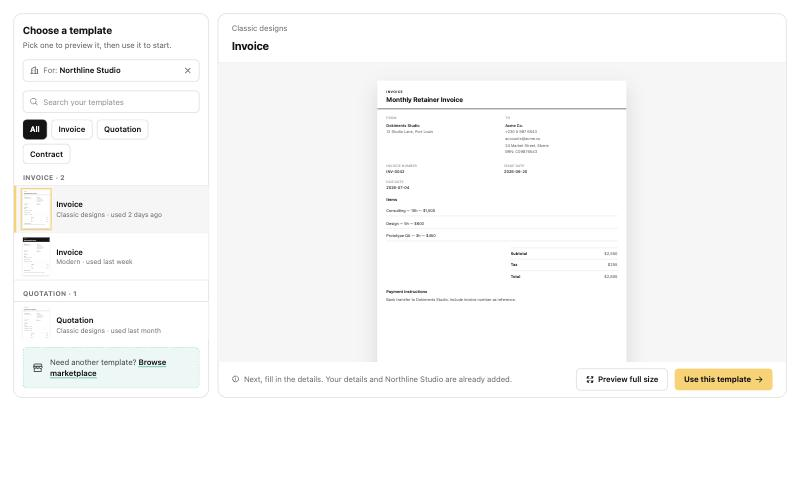
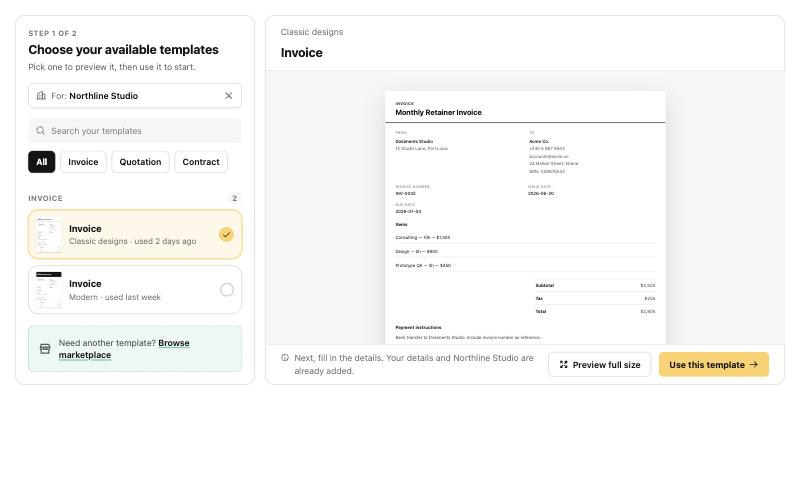
feat: rework choose template page.

diff --git a/src/components/dashboard/template-picker/template-picker-row.tsx b/src/components/dashboard/template-picker/template-picker-row.tsx
@@ -1,16 +1,15 @@
-import { CaretRightIcon } from "@phosphor-icons/react";
+import { ArrowRightIcon, CheckIcon } from "@phosphor-icons/react";
 import type { KeyboardEvent, Ref } from "react";
 
 import { TemplateThumbnail } from "@/components/commons/template-thumbnail/template-thumbnail";
 import { getTemplateDisplayName } from "@/lib/market-place/document-labels";
-import { iconSize } from "@/lib/icons";
 import { cn } from "@/lib/utils";
 import type { MarketplaceTemplate } from "@/types/template";
 
 export interface TemplatePickerRowProps {
   /** Muted second line, e.g. "Modern · used 2 days ago". */
   caption: string;
-  /** Desktop only: the row shown in the preview pane. */
+  /** Desktop only: the card shown in the preview pane. */
   isSelected?: boolean;
   /** Click or tap. The picker decides whether that selects or starts. */
   onActivate: () => void;
@@ -23,10 +22,14 @@ export interface TemplatePickerRowProps {
 }
 
 /**
- * One saved template in the picker list: a 48px A4 thumbnail (a real page
- * scaled down, like the marketplace cards), the name and a
- * caption. On desktop the selected row gets a golden edge and drives the
- * preview pane; on phones the chevron signals that a tap opens the editor.
+ * One saved template in the picker list, as its own card: a 40px A4
+ * thumbnail (a real page scaled down, like the marketplace cards), the name
+ * in bold and a muted caption.
+ *
+ * The marker on the right says what a click does. Desktop shows a radio
+ * circle (pick one to preview), filled golden with a check on the selected
+ * card, which also gets a golden ring and a pale gold fill. Phones show an
+ * arrow, because a tap starts the document straight away.
  */
 export const TemplatePickerRow = ({
   caption,
@@ -44,9 +47,9 @@ export const TemplatePickerRow = ({
       aria-current={isSelected ? "true" : undefined}
       aria-label={`${name}, ${caption}`}
       className={cn(
-        "template-picker-row relative flex min-h-16 w-full items-center gap-3 px-4 py-2 text-left transition-colors hover:bg-base-200 focus-visible:z-10 focus-visible:outline-2 focus-visible:-outline-offset-2 focus-visible:outline-nox-noir/30",
+        "template-picker-row flex min-h-18 w-full items-center gap-3 rounded-box border border-steel-mist bg-base-100 px-3 py-2.5 text-left transition-colors hover:bg-base-200 focus-visible:outline-2 focus-visible:outline-offset-2 focus-visible:outline-nox-noir/30",
         isSelected &&
-          "lg:bg-base-200 lg:before:absolute lg:before:inset-y-0 lg:before:left-0 lg:before:w-1 lg:before:bg-golden-harvest",
+          "lg:border-golden-harvest lg:bg-golden-harvest/15 lg:ring-1 lg:ring-golden-harvest lg:hover:bg-golden-harvest/20",
       )}
       data-template-id={template.id}
       onClick={onActivate}
@@ -55,13 +58,7 @@ export const TemplatePickerRow = ({
       ref={ref}
       type="button"
     >
-      <span
-        className={cn(
-          "w-12 shrink-0",
-          isSelected &&
-            "lg:outline-2 lg:outline-offset-2 lg:outline-golden-harvest",
-        )}
-      >
+      <span className="w-10 shrink-0">
         <TemplateThumbnail
           elevation="small"
           tiny
@@ -69,19 +66,41 @@ export const TemplatePickerRow = ({
         />
       </span>
       <span className="min-w-0 flex-1">
-        <span className="block truncate font-title text-[0.9375rem] font-semibold text-nox-noir lg:text-sm">
+        <span className="block truncate font-title text-[0.9375rem] font-bold text-nox-noir">
           {name}
         </span>
-        <span className="block truncate text-[0.8125rem] text-nox-noir/60 lg:text-xs">
+        <span className="block truncate text-[0.8125rem] text-nox-noir/60">
           {caption}
         </span>
       </span>
-      <CaretRightIcon
+
+      {/* Desktop: a radio circle, because a click selects. */}
+      {isSelected ? (
+        <span
+          aria-hidden
+          className="hidden size-6 shrink-0 place-items-center rounded-full bg-golden-harvest text-nox-noir lg:grid"
+        >
+          <CheckIcon
+            size={13}
+            weight="bold"
+          />
+        </span>
+      ) : (
+        <span
+          aria-hidden
+          className="hidden size-5.5 shrink-0 rounded-full border-2 border-steel-mist lg:block"
+        />
+      )}
+      {/* Phones: an arrow, because a tap starts the document. */}
+      <span
         aria-hidden
-        className="shrink-0 text-nox-noir/40 lg:hidden"
-        size={iconSize.control}
-        weight="bold"
-      />
+        className="grid size-8 shrink-0 place-items-center rounded-full bg-base-200 text-nox-noir lg:hidden"
+      >
+        <ArrowRightIcon
+          size={14}
+          weight="bold"
+        />
+      </span>
     </button>
   );
 };

diff --git a/src/components/dashboard/template-picker/template-picker.tsx b/src/components/dashboard/template-picker/template-picker.tsx
@@ -118,15 +118,18 @@ export const TemplatePicker = ({
   // Desktop: one fixed-height row, so the list card and the preview end on
   // the same line; the list scrolls inside its card.
   return (
-    <div className="template-picker grid w-full gap-4 lg:h-[calc(100dvh-13rem)] lg:min-h-[32rem] lg:grid-cols-[22rem_minmax(0,1fr)]">
-      <div className="flex min-w-0 flex-col gap-4 lg:min-h-0 lg:overflow-hidden lg:rounded-box lg:border lg:border-steel-mist lg:bg-base-100 lg:p-4">
+    <div className="template-picker grid w-full gap-4 lg:h-[calc(100dvh-13rem)] lg:min-h-[32rem] lg:grid-cols-[24rem_minmax(0,1fr)]">
+      <div className="flex min-w-0 flex-col gap-4 lg:min-h-0 lg:overflow-hidden lg:rounded-box lg:border lg:border-steel-mist lg:bg-base-100 lg:p-5">
         {/* Says what to do here in one line, so nobody wonders whether a
             click starts the document or only shows it. */}
-        <div>
-          <h2 className="font-title text-lg font-bold text-nox-noir">
+        <div className="max-lg:mb-2">
+          <p className="font-title text-xs font-bold tracking-wider text-nox-noir/55 uppercase">
+            Step 1 of 2
+          </p>
+          <h2 className="mt-1 font-title text-xl font-bold text-nox-noir">
             Choose your available templates
           </h2>
-          <p className="mt-0.5 text-sm leading-5 text-nox-noir/65">
+          <p className="mt-1 text-sm leading-5 text-nox-noir/65">
             <span className="lg:hidden">Tap one to start your document.</span>
             <span className="hidden lg:inline">
               Pick one to preview it, then use it to start.
@@ -170,19 +173,24 @@ export const TemplatePicker = ({
             title="No templates match"
           />
         ) : (
-          <div className="-mx-4 grid content-start gap-4 lg:min-h-0 lg:flex-1 lg:overflow-y-auto">
+          // `p-0.5` keeps the selected card's ring clear of the scroll edge.
+          <div className="-m-0.5 grid grid-cols-1 content-start gap-6 p-0.5 max-lg:mb-4 lg:min-h-0 lg:flex-1 lg:gap-4 lg:overflow-y-auto">
             {groups.map((group) => {
               const label = getDocumentTypeLabel(group.documentType);
 
               return (
                 <section
                   aria-label={`${label} templates`}
+                  className="grid grid-cols-1 gap-2.5"
                   key={group.documentType}
                 >
-                  <h3 className="px-4 pb-1.5 font-title text-xs font-bold tracking-wider text-nox-noir/60 uppercase">
-                    {label} · {group.templates.length}
+                  <h3 className="flex items-center justify-between gap-2 font-title text-xs font-bold tracking-wider text-nox-noir/55 uppercase">
+                    {label}
+                    <span className="rounded-full bg-base-200 px-2 py-px tracking-normal">
+                      {group.templates.length}
+                    </span>
                   </h3>
-                  <ul className="divide-y divide-steel-mist/50 border-y border-steel-mist/70 bg-base-100">
+                  <ul className="grid grid-cols-1 gap-2.5">
                     {group.templates.map((template) => (
                       <li key={template.id}>
                         <TemplatePickerRow

diff --git a/src/components/dashboard/template-picker/template-picker-filters.tsx b/src/components/dashboard/template-picker/template-picker-filters.tsx
@@ -16,9 +16,9 @@ export interface TemplatePickerFiltersProps {
 }
 
 /**
- * Search box and a row of type chips above the template picker list. The
- * chips scroll sideways on phones rather than wrapping, so the row keeps one
- * height. Chips are toggle buttons (`aria-pressed`), one per owned type.
+ * Search box (the app's grey input fill) and a row of type chips above the
+ * template picker list. The chips scroll sideways on every screen rather
+ * than wrapping, so the row keeps one height. Chips are toggle buttons (`aria-pressed`), one per owned type.
  */
 export const TemplatePickerFilters = ({
   documentType,
@@ -46,7 +46,7 @@ export const TemplatePickerFilters = ({
         />
         <input
           aria-label="Search your templates"
-          className="h-11 w-full rounded-field border border-steel-mist bg-base-100 pl-9 pr-10 font-body text-base text-nox-noir placeholder:text-nox-noir/45 focus:border-nox-noir/40 focus:outline-none lg:h-10 lg:text-sm"
+          className="h-11 w-full rounded-field border border-transparent bg-base-200 pl-9 pr-10 font-body text-base text-nox-noir placeholder:text-nox-noir/50 focus:border-nox-noir focus:ring-2 focus:ring-nox-noir/15 focus:outline-none lg:h-10 lg:text-sm"
           onChange={(event) => onSearch(event.target.value)}
           placeholder="Search your templates"
           role="searchbox"
@@ -70,7 +70,7 @@ export const TemplatePickerFilters = ({
       {documentTypes.length > 1 ? (
         <div
           aria-label="Template type"
-          className="-mx-4 flex gap-2 overflow-x-auto px-4 [scrollbar-width:none] lg:mx-0 lg:flex-wrap lg:px-0"
+          className="-mx-4 mb-3.5 flex gap-2 overflow-x-auto px-4 [scrollbar-width:none] lg:-mx-5 lg:px-5"
           role="group"
         >
           {chips.map((chip) => {

diff --git a/src/components/dashboard/documents-view/stories/documents-view.stories.tsx b/src/components/dashboard/documents-view/stories/documents-view.stories.tsx
@@ -700,7 +700,9 @@ export const NewDocumentDeepLink: Story = {
     const canvas = within(canvasElement);
 
     await expect(
-      await canvas.findByRole("heading", { name: "Choose a template" }),
+      await canvas.findByRole("heading", {
+        name: "Choose your available templates",
+      }),
     ).toBeVisible();
     // The picker replaced the list rather than stacking on top of it.
     await expect(
@@ -1034,14 +1036,18 @@ export const BackFromPickerReturnsToList: Story = {
       (await canvas.findAllByRole("button", { name: /new document/i }))[0],
     );
     await expect(
-      await canvas.findByRole("heading", { name: "Choose a template" }),
+      await canvas.findByRole("heading", {
+        name: "Choose your available templates",
+      }),
     ).toBeInTheDocument();
 
     window.history.back();
 
     await expect(await canvas.findByText(/no documents yet/i)).toBeVisible();
     await expect(
-      canvas.queryByRole("heading", { name: "Choose a template" }),
+      canvas.queryByRole("heading", {
+        name: "Choose your available templates",
+      }),
     ).not.toBeInTheDocument();
   },
 };

diff --git a/src/components/dashboard/template-picker/template-picker-skeleton.tsx b/src/components/dashboard/template-picker/template-picker-skeleton.tsx
@@ -6,7 +6,7 @@ import { LoadingStatus } from "@/components/commons/loading-status/loading-statu
  * same two-column frame as the loaded picker so nothing jumps.
  */
 export const TemplatePickerSkeleton = () => (
-  <div className="template-picker-skeleton grid gap-4 lg:min-h-0 lg:flex-1 lg:grid-cols-[22rem_minmax(0,1fr)]">
+  <div className="template-picker-skeleton grid gap-4 lg:min-h-0 lg:flex-1 lg:grid-cols-[24rem_minmax(0,1fr)]">
     <div className="rounded-box border border-steel-mist bg-base-100 p-4">
       <LoadingStatus message="Loading your templates…" />
       <div className="skeleton h-10 w-full rounded-field" />

diff --git a/src/components/dashboard/template-picker/stories/template-picker.stories.tsx b/src/components/dashboard/template-picker/stories/template-picker.stories.tsx
@@ -77,7 +77,7 @@ export const Desktop: Story = {
 
     // The card says what to do before anything is clicked.
     await expect(
-      canvas.getByRole("heading", { name: "Choose a template" }),
+      canvas.getByRole("heading", { name: "Choose your available templates" }),
     ).toBeVisible();
     await expect(
       canvas.getByText(

diff --git a/.codex/skills/dokiments-ui/SKILL.md b/.codex/skills/dokiments-ui/SKILL.md
@@ -106,7 +106,7 @@ All UI components must reside exactly within one of these four subdirectories un
 - **Sample content:** `sample-data.ts` holds realistic dummy values per document type. `TemplateThumbnail` and the preview default to these so users see a filled document, not empty placeholders.
 - **Styles & tiers:** Styles map to subscription tiers (Classic = free, Modern = silver, Minimal = gold). Tier and status labels use the shared `Badge` component from `src/components/commons/badge/badge.tsx`: Free = green (`bg-success`), Silver = golden, Gold = black/noir (mirrors the plan-card backgrounds). Gating is via `canUseTier(role, tier)` — any tier can be previewed, but saving/using a locked tier requires upgrading (`/subscription`).
 - **Marketplace layout:** Categorized by style; each style's cards render in a horizontal `Carousel`. The page opens with the full-width `MarketplacePromoBanner` before category navigation. It is a four-slide announcement carousel built to convert, ordered by value to someone choosing a template: **offer** (golden; "Every template is free during launch" while `tierLocksDisabled`, otherwise an honest "Unlock all N templates" → `/subscription`) → **clients** (blue; "Add a client once" → `/my-clients`) → **send** (purple; "Get it signed" → `/my-documents` when sharing is on, otherwise "A polished PDF in one click" → `/my-templates`) → **CVs** (pink; "For students" → `/marketplace?type=cv`, which `MarketplaceBrowser` reads once and drops). Every slide has the same anatomy (`MarketplacePromoSlide`), structured like a streaming-app hero (copy in a safe zone, the picture dominant, controls off the artwork): a white sentence-case label pill with an icon (what it is: "Launch offer", "Save time"; never all caps), a benefit-first title of a few words, one sentence of about 70 characters, up to three checked proof points, and exactly one `LinkButton` whose label names the outcome ("Browse all templates", "Add a client"), never "Learn more" or "Explore". Numbers in the copy are counted from `marketplaceTemplates` at build time, never typed in, and every claim must be true (no fake urgency, no testimonials we don't have; recipients need an account to sign, so don't say otherwise). Typography: title `text-balance`, `max-w-[20ch]`; `text-base` detail at 75% opacity; `text-sm` semibold points. Vertically center the complete left content group, with the CTA directly beneath the text rather than distributed to the banner edge. Use the supplied `public/images/svg/icon-vish-studio.svg` as an oversized, dark, low-opacity watermark behind the left copy, offset so only its right half emerges from the banner's left edge. Clients use the palette blue consistently: `My Clients` has the `blue` page-header tone, and the related marketplace slide uses `bg-play-blue`. Documents/overview uses `bg-golden-harvest`, promo uses `bg-play-purple`, and templates uses `bg-play-pink`. The banner has no border and no visible carousel navigation controls; it advances automatically. Use dark editorial copy and a black shared rectangular CTA; do not add overlays or gradients. Each slide's image is a real app screen, never a placeholder: `public/images/marketplace/promo-{documents,clients,templates-offer,templates}.webp`, composed by `npm run compose:banners` (`scripts/compose-marketplace-banners.mjs`) from the `capture:marketing` screens. Each is a transparent 1400×1080 WebP: a dark browser window bleeding off the right and bottom edges (anchored `object-right-bottom`), with an iPhone in front on the documents and offer slides, so the slide colour shows around it. Re-run `capture:marketing` then `compose:banners` when those pages change; never hand-edit the images. On every slide change, use smooth, hardware-friendly easing: animate background color first, copy second, then the right visual; use opacity and transform only, provide enough stagger for each layer to settle, and disable all three for reduced-motion preferences. `MarketplacePromoCarousel` owns one fixed card frame, `h-[35rem]` on phones and `h-[23rem]` from `sm`, with the stepper and arrows in a row **below** the card (never overlaid on copy or image), swipe on touch, and autoplay paused while hovered or focused. Inside the card: from `sm` the copy keeps to the left 58% (`sm:w-[58%]`, `p-10 lg:px-12`), vertically centred, on a 16 / 12 / 16 / 24px rhythm (label → title → sentence → points → CTA), and the image fills the right 52%, bleeding off the bottom-right; on phones the copy starts at the top (`p-6`) and the image bleeds off the card's bottom-right under the CTA. The slide is an `@container`: the proof points and the `text-4xl` title appear only once the banner itself is `@4xl` (56rem) wide, so they never wrap beside the sidebar; below that the title is `text-3xl` (`text-[1.75rem]` on phones) and the points are hidden; each `MarketplacePromoSlide` must use `h-full`, never its own height token, so all content variants occupy the same unclipped banner height. Use the dedicated `MarketplacePromoCarousel` here—not the shared sliding `Carousel`—so a fixed promo container swaps slides with a short fade, avoiding adjacent slide edges during transitions. Category order comes from `sortDocumentTypes` (`src/lib/market-place/document-labels.ts`): "All templates", then `featuredDocumentTypes` in fixed order (Invoice, Quotation, CV, NDA, Contract, Scope of Work), then every other type alphabetically by label. The rail and the toolbar's type filter share this order; change it only through `featuredDocumentTypes`. `MarketplaceCategoryNav` (and its skeleton) is a bordered card at every width (`rounded-box border border-steel-mist bg-base-100 p-4 sm:p-6`, never bare on desktop), with `mt-4` so it sits 40px below the banner's controls. Marketplace categories use the shared `Carousel` at every breakpoint with `navigationPlacement="header"`, placing visible previous/next controls beside “Browse by category” to signal the horizontally scrollable rail. Each `MarketplaceCategoryTile` is a content-width chip (`w-auto whitespace-nowrap`, `h-10` compact / `h-12` from `lg`): Phosphor icon on the left and the full label on the right, never truncated or line-clamped. Active chips are solid noir with a filled icon. `MarketplaceCategoryNavSkeleton` mirrors the same chip shape with varied label widths.
-- **Template picker (new document):** `TemplatePicker` (`components/dashboard/template-picker`) is step one of a new document. Desktop (`lg`+) is a split view: a `22rem` left card with the "For: {company}" `TemplatePickerContextChip` (only when started from a company page; its × drops the prefill), `TemplatePickerFilters` (search + one `aria-pressed` chip per owned type, hidden when there is only one type), then rows grouped by type (`TemplatePickerRow`: 48px A4 thumbnail drawn with `TemplateThumbnail tiny`, a full-width page scaled down so it never reflows into a broken column, display name, "Style · used 2 days ago"; groups and order from `buildTemplatePickerGroups`, `src/lib/documents/template-picker.ts`, most recently used first), a dashed "Need another template? Browse marketplace" link tinted in the marketplace tone (`border-play-teal bg-play-teal/15`) and an "↑ ↓ to browse · Enter to use" hint; on the right `TemplatePickerPreview` (large A4 paper page on the grey desk, footer with "Preview full size" outline and the golden `accent` "Use this template", the page's one main action). Both columns share one fixed-height row (`calc(100dvh-13rem)`, min 32rem) so the list card ends level with the preview; the list scrolls inside its card and the marketplace link sits at the card's foot. A row click selects on desktop. **Phones show the list only, no preview pane:** a tap starts the document straight away (checked with `desktopMediaQuery` at click time). Enter on a row always starts it. The page title is "New document"; the list card opens with a visible "Choose a template" heading and one instruction line ("Pick one to preview it, then use it to start." on desktop, "Tap one to start your document." on phones). Double-click on a row also starts it. The preview footer says what happens next ("Next, fill in the details. Your own details are already added.", or "Your details and {company} are already added." when started from a company page); the preview header shows the type badge only when the name doesn't already say it. Loading uses `TemplatePickerSkeleton`; no saved templates keeps the `EmptyState` with "Browse marketplace".
+- **Template picker (new document):** `TemplatePicker` (`components/dashboard/template-picker`) is step one of a new document. The list side looks the same on desktop and phones: a "STEP 1 OF 2" eyebrow, the heading and one instruction line ("Pick one to preview it, then use it to start." on desktop, "Tap one to start your document." on phones), the "For: {company}" `TemplatePickerContextChip` when started from a company page (its × drops the prefill), `TemplatePickerFilters` (grey `bg-base-200` search, then one row of `aria-pressed` type chips that scrolls sideways and never wraps, hidden with only one type), groups with an uppercase label and a grey count pill on the right (order from `buildTemplatePickerGroups`, `src/lib/documents/template-picker.ts`, most recently used first), and the teal-tinted "Need another template? Browse marketplace" link (`border-play-teal bg-play-teal/15`). Each template is its own card (`TemplatePickerRow`: `rounded-box border`, a 40px `TemplateThumbnail tiny` page, bold name, muted "Style · used 2 days ago"); its right-hand marker says what a click does: on desktop a radio circle that turns into a golden check, with a golden ring and `bg-golden-harvest/15` on the selected card; on phones a grey arrow circle, because a tap starts the document. List grids use `grid-cols-1` so long captions truncate instead of widening the cards. Desktop (`lg`+) is a split view in one fixed-height row (`calc(100dvh-13rem)`, min 32rem; list column `24rem`, bordered card, `p-5`): the list scrolls inside its card, and `TemplatePickerPreview` on the right shows the selected page on the grey desk with "Preview full size" (outline) and the golden `accent` "Use this template", the page's one main action, plus what happens next ("Next, fill in the details. Your own details are already added.", or "Your details and {company} are already added."); its header shows the type badge only when the name doesn't already say it. A click selects on desktop; Enter or a double-click starts. **Phones show the list only, no preview pane**, and a tap starts the document (checked with `desktopMediaQuery` at click time). Loading uses `TemplatePickerSkeleton`; no saved templates keeps the `EmptyState` with "Browse marketplace".
 - **Preview:** Opens in the reusable right-hand `SidePanel` drawer (flat, slides in via `.side-panel-enter`), rendering the `TemplateDocument` with sample content.
 - **Persistence & flow:** Saved (owned) templates come from `/api/saved-templates` via `use-saved-templates.ts` (ownership only — no values) and documents from `/api/documents` via `use-documents.ts`; both are stored per user in Firestore. Flow: Marketplace saves a template → **My Templates** is a read-only gallery of owned templates (thumbnails, no editing) → **Documents** creates/edits a concrete document from an owned template (name + `TemplateForm` on the left, live `TemplateDocument` render on the right).
 - **Reusable building blocks:** Prefer `PlanCard` (used by subscription + website pricing), `TemplateDocument` (style-aware renderer), `TemplateThumbnail`, `Carousel`, and `SidePanel` over re-implementing these patterns.
